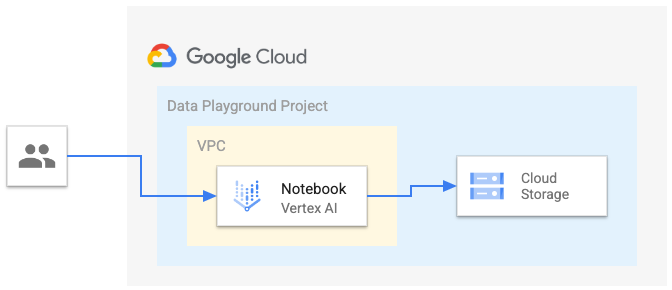
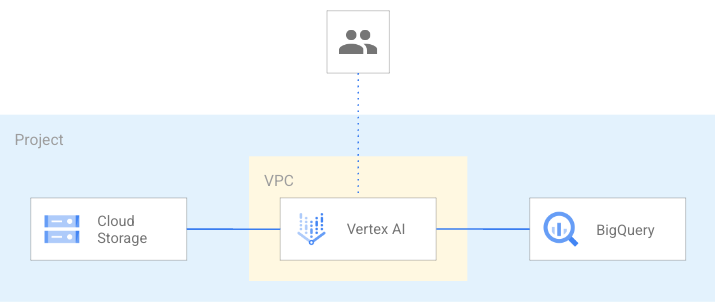
Improve Data Playground example (#738) * First commit * Fix README * Improve READMEs * Implement PR comments. * Fix Co-authored-by: Ludovico Magnocavallo <[email redacted]>

diff --git a/tests/examples/data_solutions/data_playground/test_plan.py b/tests/examples/data_solutions/data_playground/test_plan.py
@@ -22,5 +22,5 @@ FIXTURES_DIR = os.path.join(os.path.dirname(__file__), 'fixture')
 def test_resources(e2e_plan_runner):
   "Test that plan works and the numbers of resources is as expected."
   modules, resources = e2e_plan_runner(FIXTURES_DIR)
-  assert len(modules) == 4
-  assert len(resources) == 23
+  assert len(modules) == 7
+  assert len(resources) == 34

diff --git a/examples/data-solutions/data-playground/README.md b/examples/data-solutions/data-playground/README.md
@@ -1,6 +1,6 @@
 # Data Playground
 
-This example creates a minimum viable template for a data experimentation project with the needed APIs enabled, basic VPC and Firewall set in place, GCS bucket and an AI notebook to get started.
+This example creates a minimum viable architecture for a data experimentation project with the needed APIs enabled, VPC and Firewall set in place, BigQuesy dataset, GCS bucket and an AI notebook to get started.
 
 This is the high level diagram:
 
@@ -10,34 +10,58 @@ This is the high level diagram:
 
 This sample creates several distinct groups of resources:
 
-- projects
-    - Service Project configured for GCE instances and GCS buckets
+- project
 - networking
-    - VPC network
-    - One default subnet
+    - VPC network with a default subnet and CloudNat
     - Firewall rules for [SSH access via IAP](https://cloud.google.com/iap/docs/using-tcp-forwarding) and open communication within the VPC
-- Vertex AI notebook
-  - One Jupyter lab notebook instance with public access
-- GCS
-    - One bucket initial bucket
+- Vertex AI Workbench notebook configured with a private IP and using a dedicated Service Account
+- One GCS bucket
+- One BigQuery dataset
 
+## Deploy your enviroment
+We assume the identiy running the following steps has the following role:
 
+- resourcemanager.projectCreator in case a new project will be created.
+- owner on the project in case you use an existing project.
+
+Run Terraform init:
+```
+$ terraform init
+```
+
+Configure the Terraform variable in your terraform.tfvars file. You need to spefify at least the following variables:
+```
+prefix = "prefix"
+project_id      = "data-001"
+```
+
+You can run now:
+```
+$ terraform apply
+```
+
+You can now connect to the Vertex AI notbook to perform your data analysy.
+<!-- BEGIN TFDOC -->
 
 ## Variables
-| name                      | description                                                                                                                             | type        | required | default      |
-| ------------------------- | --------------------------------------------------------------------------------------------------------------------------------------- | ----------- | -------- | ------------ |
-| project\_id               | Project id, references existing project if \`project\_create\` is null.                                                                 | string      | ✓        |              |
-| location                  | The location where resources will be deployed                                                                                           | string      |          | europe       |
-| region                    | The region where resources will be deployed.                                                                                            | string      |          | europe-west1 |
-| project\_create           | Provide values if project creation is needed, uses existing project if null. Parent format: folders/folder\_id or organizations/org\_id | object({…}) |          | null         |
-| prefix                    | Unique prefix used for resource names. Not used for project if 'project\_create' is null.                                               | string      |          | dp           |
-| service\_encryption\_keys | Cloud KMS to use to encrypt different services. Key location should match service region.                                               | object({…}) |          | null         |
-| vpc\_config               | Parameters to create a simple VPC for the Data Playground                                                                               | object({…}) |          | {...}        |
+
+| name | description | type | required | default |
+|---|---|:---:|:---:|:---:|
+| [prefix](variables.tf#L36) | Unique prefix used for resource names. Not used for project if 'project_create' is null. | <code>string</code> | ✓ |  |
+| [project_id](variables.tf#L22) | Project id, references existing project if `project_create` is null. | <code>string</code> | ✓ |  |
+| [location](variables.tf#L16) | The location where resources will be deployed. | <code>string</code> |  | <code>&#34;EU&#34;</code> |
+| [project_create](variables.tf#L27) | Provide values if project creation is needed, uses existing project if null. Parent format:  folders/folder_id or organizations/org_id | <code title="object&#40;&#123;&#10;  billing_account_id &#61; string&#10;  parent             &#61; string&#10;&#125;&#41;">object&#40;&#123;&#8230;&#125;&#41;</code> |  | <code>null</code> |
+| [region](variables.tf#L41) | The region where resources will be deployed. | <code>string</code> |  | <code>&#34;europe-west1&#34;</code> |
+| [vpc_config](variables.tf#L57) | Parameters to create a VPC. | <code title="object&#40;&#123;&#10;  ip_cidr_range &#61; string&#10;&#125;&#41;">object&#40;&#123;&#8230;&#125;&#41;</code> |  | <code title="&#123;&#10;  ip_cidr_range &#61; &#34;10.0.0.0&#47;20&#34;&#10;&#125;">&#123;&#8230;&#125;</code> |
 
 ## Outputs
-| Name                                                                                                                                                  | Description             |
-| ----------------------------------------------------------------------------------------------------------------------------------------------------- | ----------------------- |
-| bucket  | GCS Bucket URL.         |
-| project | Project id              |
-| vpc                                                                                                                                                   | VPC Network name        |
-| notebook                                                                                                                                              | Vertex AI notebook name |
+
+| name | description | sensitive |
+|---|---|:---:|
+| [bucket](outputs.tf#L15) | GCS Bucket URL. |  |
+| [dataset](outputs.tf#L20) | GCS Bucket URL. |  |
+| [notebook](outputs.tf#L25) | Vertex AI notebook details. |  |
+| [project](outputs.tf#L33) | Project id |  |
+| [vpc](outputs.tf#L38) | VPC Network |  |
+
+<!-- END TFDOC -->

diff --git a/examples/data-solutions/README.md b/examples/data-solutions/README.md
@@ -36,6 +36,6 @@ This [example](./cloudsql-multiregion/) creates a [Cloud SQL instance](https://c
 
 ### Data Playground starter with Cloud Vertex AI Notebook and GCS
 
-<a href="./data-playground/" title="Data Playground starter with Cloud Vertex AI Notebook and GCS"><img src="./data-playground/diagram.png" align="left" width="280px"></a>
-This [example](./data-playground/) creates a [Vertex AI Notebook](https://cloud.google.com/vertex-ai/docs/workbench/introduction) running under a VPC network and a starter GCS bucket to store inputs and outputs of data experiments.
+<a href="./data-playground/" title="Data Playground project with Cloud Vertex AI Notebook, BigQuery and GCS"><img src="./data-playground/diagram.png" align="left" width="280px"></a>
+This [example](./data-playground/) creates a [Vertex AI Notebook](https://cloud.google.com/vertex-ai/docs/workbench/introduction) running on a VPC with a private IP and a dedicated Service Account. A GCS bucket and a BigQuery dataset are created to store inputs and outputs of data experiments.
 <br clear="left">